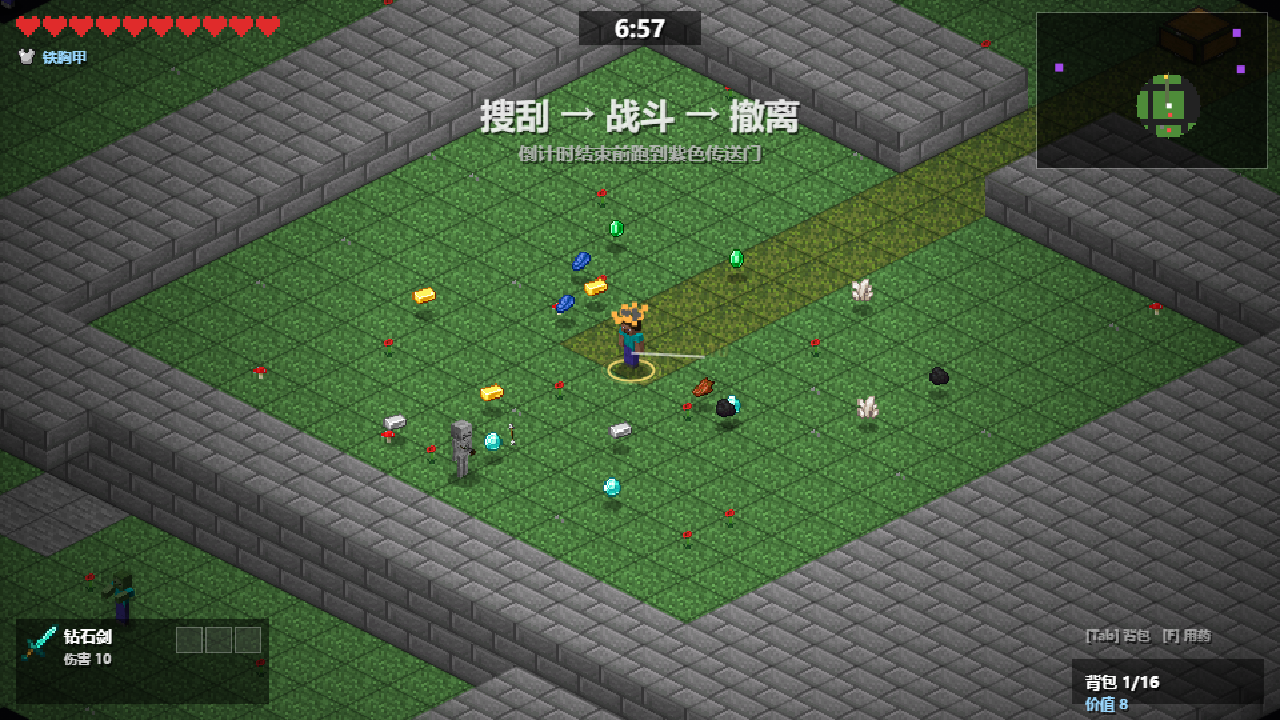
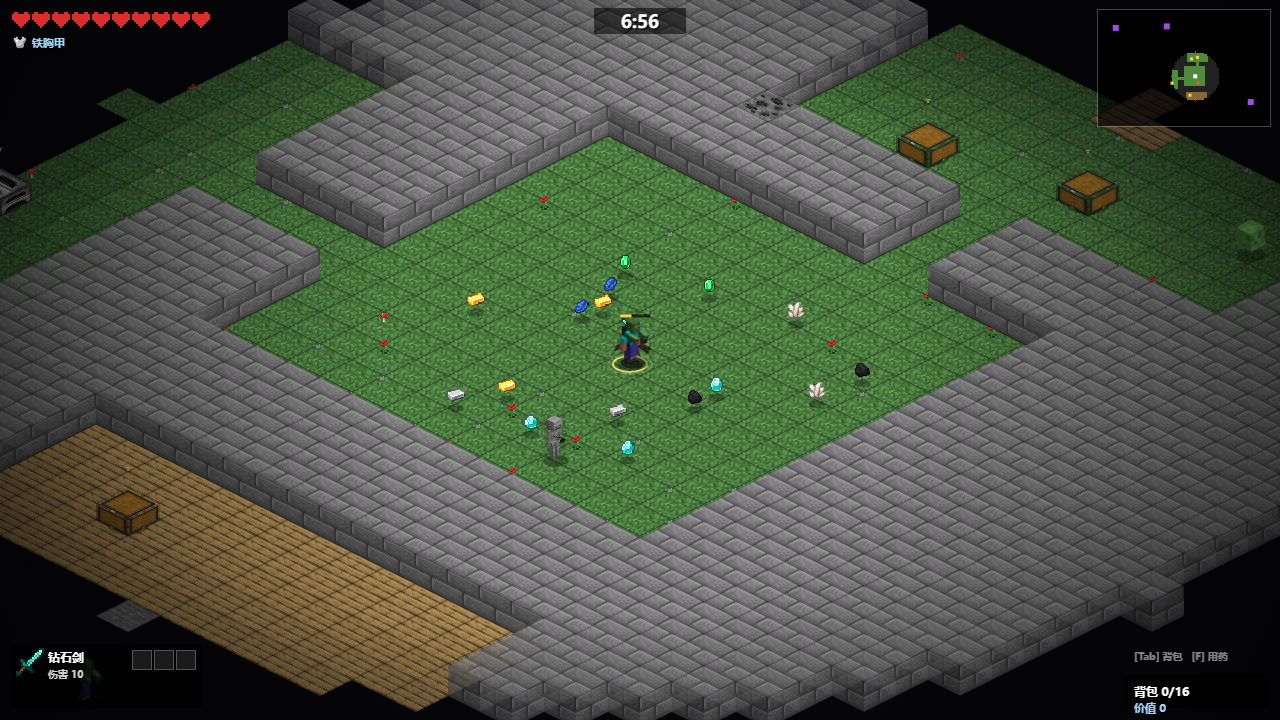
feat: 等距下 WASD 走屏幕方向、手持武器、走路动画细化、分辨率改 1280x720 提升清晰度

diff --git a/js/render2.js b/js/render2.js
@@ -218,17 +218,18 @@
     const facingAway = dy < -6;
     const dim = facingAway ? 0.12 : 0;
 
-    // 动画：走路上下颠 + 左右轻微倾斜 + 攻击/受伤挤压
-    const walk = e.animWalk || 0;
-    const bob = Math.sin(walk * 9) * 2.2;
-    const sway = Math.sin(walk * 4.5) * 0.03;
+    // 动画：步频相位 → 上下颠 + 左右倾 + 挤压
+    const phase = (e.animWalk || 0) * 3.4;
+    const stepping = Math.abs(Math.sin(phase));
+    const bob = -stepping * 3.0;
+    const lean = Math.sin(phase) * 0.05 * flip;
     const punch = e.hitT > 0 ? 0.12 : 0;
-    const sx = 1 + punch - Math.abs(Math.sin(walk * 9)) * 0.02;
-    const sy = 1 - punch + Math.abs(Math.sin(walk * 9)) * 0.03;
+    const sx = 1 + punch + (1 - stepping) * 0.02;
+    const sy = 1 - punch + stepping * 0.025;
 
     ctx.save();
     ctx.translate(sBase.x, sBase.y + bob);
-    ctx.rotate(sway * flip);
+    ctx.rotate(lean);
     ctx.scale(flip * sx, sy);
     ctx.drawImage(img, -w / 2, -h, w, h);
     if (dim > 0) {
@@ -294,16 +295,18 @@
     const facingAway = ay < -0.35;
     const dim = facingAway ? 0.10 : 0;
 
-    const moveT = p.walked || 0;
-    const bob = Math.sin(moveT * 0.12) * 2.2;
-    const sway = Math.sin(moveT * 0.06) * 0.03;
-    const punch = p.swingT > 0 ? p.swingT * 1.2 : 0;
-    const sx = 1 + punch * 0.15;
-    const sy = 1 - punch * 0.12;
+    // 走路动画：步频相位 → 上下颠 + 左右倾 + 落地挤压
+    const phase = (p.walked || 0) / 26;
+    const stepping = Math.abs(Math.sin(phase));
+    const bob = -stepping * 3.2;
+    const lean = Math.sin(phase) * 0.055 * flip;
+    const punch = p.swingT > 0 ? (1 - p.swingT / 0.18) : 0;
+    const sx = 1 + punch * 0.18 + (1 - stepping) * 0.03;
+    const sy = 1 - punch * 0.10 - (1 - stepping) * 0.02 + stepping * 0.02;
 
     ctx.save();
-    ctx.translate(sBase.x, sBase.y + bob);
-    ctx.rotate(sway * flip);
+    ctx.translate(Math.round(sBase.x), Math.round(sBase.y + bob));
+    ctx.rotate(lean);
     ctx.scale(flip * sx, sy);
     ctx.drawImage(img, -w / 2, -h, w, h);
     if (dim > 0) {
@@ -313,6 +316,22 @@
       ctx.globalCompositeOperation = 'source-over';
     }
     ctx.restore();
+
+    // 手上的武器：按瞄准方向伸出，挥砍时扫一个弧
+    const wId = p.weapon && p.weapon.id;
+    if (wId) {
+      const icon = P.item(wId);
+      const hand = E.Cam.projS(p.x + ax * 7, p.y + ay * 7);
+      const tipS = E.Cam.projS(p.x + ax * 30, p.y + ay * 30);
+      const aimAng = Math.atan2(tipS.y - hand.y, tipS.x - hand.x);
+      const sweep = p.swingT > 0 ? Math.sin((1 - p.swingT / 0.18) * Math.PI) * 1.5 - 0.6 : 0;
+      ctx.save();
+      ctx.translate(hand.x, hand.y - 16 + bob * 0.6);
+      ctx.rotate(aimAng + sweep);
+      ctx.scale(1.15, 1.15);
+      ctx.drawImage(icon, 2, -16, 16, 16);
+      ctx.restore();
+    }
 
     // 挥砍：等距平面上的椭圆扇形
     if (p.swingT > 0) {

diff --git a/js/entity.js b/js/entity.js
@@ -675,21 +675,26 @@
       Wd.moveEnt(g.world, p, Math.cos(p.dashDir) * cfg.dashSpeed * dt, Math.sin(p.dashDir) * cfg.dashSpeed * dt);
       if (Math.random() < 0.6) E.FX.burst(p.x, p.y, '#ffffff', 1, 40, 2, 0.25);
     } else {
-      const ax = E.Input.axis();
+      const axIn = E.Input.axis();
+      // 屏幕方向 → 世界方向（等距逆变换）：WASD 走的是屏幕上的上下左右
+      let ax = axIn.x / 2 + axIn.y;
+      let ay = axIn.y - axIn.x / 2;
+      const alen = Math.hypot(ax, ay);
+      if (alen > 0.001) { ax /= alen; ay /= alen; }
       let spd = p.speed * (p.buffs.speed > 0 ? 1.5 : 1);
       if (p.act) {
         spd = 0;
       }
-      if (ax.x || ax.y) {
+      if (alen > 0.001) {
         const before = { x: p.x, y: p.y };
-        Wd.moveEnt(g.world, p, ax.x * spd * dt, ax.y * spd * dt);
+        Wd.moveEnt(g.world, p, ax * spd * dt, ay * spd * dt);
         p.walked += E.dist(before.x, before.y, p.x, p.y);
       }
-      if (inp.keys.space && p.dashCd <= 0 && (ax.x || ax.y)) {
+      if (inp.keys.space && p.dashCd <= 0 && alen > 0.001) {
         p.dashT = cfg.dashTime;
         p.dashCd = cfg.dashCd;
         p.invuln = Math.max(p.invuln, cfg.dashTime + 0.12);
-        p.dashDir = Math.atan2(ax.y, ax.x);
+        p.dashDir = Math.atan2(ay, ax);
         MCX.SFX.play('dash');
       }
     }

diff --git a/js/pixel.js b/js/pixel.js
@@ -1076,10 +1076,11 @@
   // 渲染图按“显示高度”归一化，避免不同实体比例被拉伸
   const MOB_H = { player: 46, zombie: 42, skeleton: 44, creeper: 46, spider: 30, slime: 32, enderman: 52, blaze: 46, wither: 92 };
 
-  function toCanvas(img, w, h) {
+  function toCanvas(img, w, h, smooth) {
     const c = mkCanvas(w, h);
     const x = c.getContext('2d');
-    x.imageSmoothingEnabled = false;
+    x.imageSmoothingEnabled = !!smooth;
+    if (smooth) x.imageSmoothingQuality = 'high';
     x.drawImage(img, 0, 0, w, h);
     return c;
   }
@@ -1098,7 +1099,7 @@
               if (bucket === 'mobs') {
                 const th = MOB_H[key] || 44;
                 const tw = Math.max(10, Math.round((img.width * th) / img.height));
-                P.assets.mobs[key] = toCanvas(img, tw, th);
+                P.assets.mobs[key] = toCanvas(img, tw, th, true);
               } else {
                 P.assets[bucket][key] = toCanvas(img, 16, 16);
               }

diff --git a/js/engine.js b/js/engine.js
@@ -6,7 +6,7 @@
   const MCX = window.MCX = window.MCX || {};
   const E = MCX.E = {};
 
-  E.W = 960; E.H = 540; E.TILE = 32;
+  E.W = 1280; E.H = 720; E.TILE = 32;
 
   /* ---------------- 数学 ---------------- */
   E.clamp = (v, a, b) => (v < a ? a : v > b ? b : v);

diff --git a/index.html b/index.html
@@ -9,7 +9,7 @@
 </head>
 <body>
 <div id="app">
-  <canvas id="cv" width="960" height="540"></canvas>
+  <canvas id="cv" width="1280" height="720"></canvas>
 
   <!-- ============ 基地 ============ -->
   <div id="s-base" class="screen">
